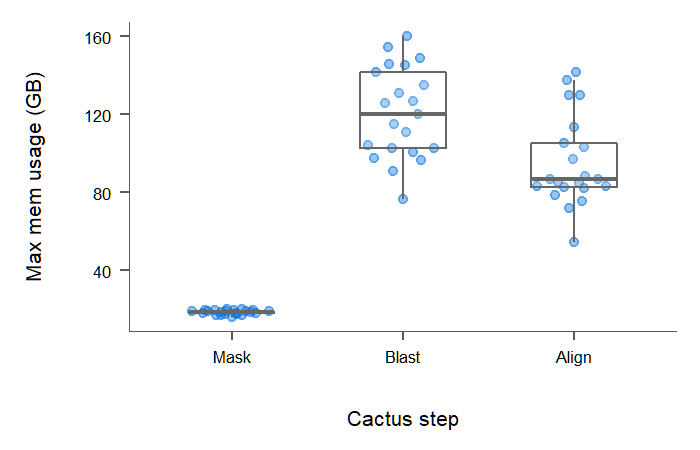
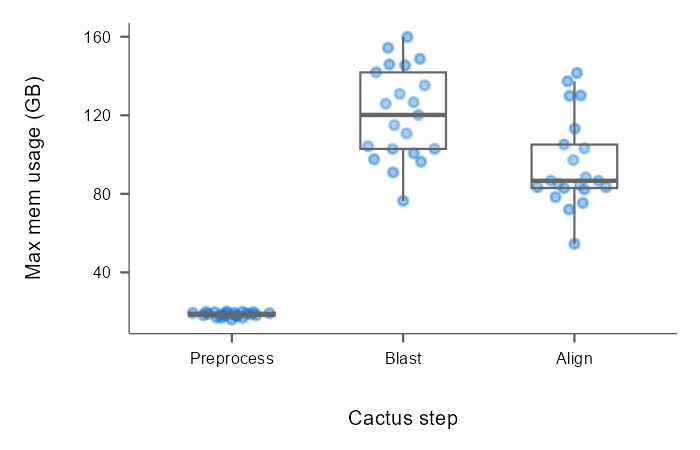
minor tweaks to cactus tutorial

diff --git a/docs/resources/Tutorials/whole-genome-alignment-cactus.md b/docs/resources/Tutorials/whole-genome-alignment-cactus.md
@@ -16,7 +16,7 @@ Comparative genomics requires alignments between sequences from different popula
     Here is the rulegraph for the pipeline. It works in rounds based on the shape of the input phylogeny (hence the cycle). First, genomes at the tips are masked and then all internal nodes are aligned.
 
     <center>
-        <img src="../../img/cactus-snakemake-rulegraph.png" alt="A directed cyclic graph showing the rules for the pipeline.'">
+        <img src="../../img/cactus-rulegraph.png" alt="A directed cyclic graph showing the rules for the pipeline.'">
     </center>
 
 ## Getting started
@@ -114,14 +114,14 @@ D   seqdir/d.fa
 E   seqdir/e.fa
 ```
 
-For more information about the Cactus input file, see their [official documentation](https://github.com/ComparativeGenomicsToolkit/cactus/blob/master/doc/progressive.md#interface). There is also an example input file for a small test dataset [here](https://github.com/harvardinformatics/cactus-snakemake/blob/main/tests/evolverMammals.txt) or at `tests/evolverMammals.txt`. For more info, see section: [Test dataset](#test-dataset).
+For more information about the Cactus input file, see their [official documentation](https://github.com/ComparativeGenomicsToolkit/cactus/blob/master/doc/progressive.md#interface). There is also an example input file for a small test dataset [here](https://github.com/harvardinformatics/cactus-snakemake/blob/main/tests/evolverMammals/evolverMammals.txt) or at `tests/evolverMammals/evolverMammals.txt`. For more info, see section: [Test dataset](#test-dataset).
 
 
 ### Preparing the Snakemake config file
 
 !!! tip "Be sure to start with the example config file as a template!"
 
-    The config for the Cactus test data can be found at [here](https://github.com/harvardinformatics/cactus-snakemake/blob/main/tests/evolverMammals-cfg.yaml) or at `tests/evolverMammals-cfg.yaml` in your downloaded cactus-snakemake repo. Be sure to use this as the template for your project since it has all the options needed! **Note: the partitions set in this config file are specific to the Harvard cluster. Be sure to update them if you are running this pipeline elsewhere.**
+    The config for the Cactus test data can be found at [here](https://github.com/harvardinformatics/cactus-snakemake/blob/main/tests/evolverMammals/evolverMammals-cfg.yaml) or at `tests/evolverMammals/evolverMammals-cfg.yaml` in your downloaded cactus-snakemake repo. Be sure to use this as the template for your project since it has all the options needed! **Note: the partitions set in this config file are specific to the Harvard cluster. Be sure to update them if you are running this pipeline elsewhere.**
 
     Additionally, a blank template file is located [here](https://github.com/harvardinformatics/cactus-snakemake/blob/main/config-template.yaml) or at `config-template.yaml` in your downloaded cactus-snakemake repo.
 
@@ -160,17 +160,17 @@ Simply replace the string surrounded by <> with the path or option desired. Belo
 Below these options in the config file are further options for specifying resource usage for each rule that the pipeline will run. For example:
 
 ```
-mask_partition: "gpu_test"
-mask_gpu: 1
-mask_cpu: 8
-mask_mem: 25000
-mask_time: 30
+preprocess_partition: "gpu_test"
+preprocess_gpu: 1
+preprocess_cpu: 8
+preprocess_mem: 25000
+preprocess_time: 30
 ```
 
 !!! warning "Notes on resource allocation"
 
     * Be sure to use partition names appropriate your cluster. Several examples in this tutorial have partition names that are specific to the Harvard cluster, so be sure to change them.
-    * **Allocate the proper partitions based on `use_gpu`.** If you want to use the GPU version of cactus (*i.e.* you have set `use_gpu: True` in the config file), the partition for the rules **mask**, **blast**, and **align** must be GPU enabled. If not, the pipeline will fail to run.
+    * **Allocate the proper partitions based on `use_gpu`.** If you want to use the GPU version of cactus (*i.e.* you have set `use_gpu: True` in the config file), the partition for the rules **preprocess**, **blast**, and **align** must be GPU enabled. If not, the pipeline will fail to run.
     * The `gpu:` options will be ignored if `use_gpu: False` is set.
     * **mem is in MB** and **time is in minutes**.
 
@@ -192,11 +192,11 @@ Click below to take a look at an example to get a sense for how many resources y
 
     <center>
 
-    | Step    | Partition | Memory | CPUs | GPUs | Time |
-    |---------|-----------|--------|------|------|------|
-    | Mask    | gpu       | 100g   | 8    | 2    | 1h   |
-    | Blast   | gpu       | 400g   | 64   | 1    | 12h  |
-    | Align   | gpu       | 450g   | 64   | 2    | 12h  |
+    | Step       | Partition | Memory | CPUs | GPUs | Time |
+    |------------|-----------|--------|------|------|------|
+    | Preprocess | gpu       | 100g   | 8    | 2    | 1h   |
+    | Blast      | gpu       | 400g   | 64   | 1    | 12h  |
+    | Align      | gpu       | 450g   | 64   | 2    | 12h  |
 
     </center>
 
@@ -227,7 +227,7 @@ First, we want to make sure everything is setup properly by using the `--dryrun`
 This is done with the following command, changing the snakefile `-s` and `--configfile` paths to the one you have created for your project:
 
 ```bash
-snakemake -p -j <# of jobs to submit simultaneously> -e slurm -s </path/to/cactus_gpu.smk> --configfile <path/to/your/snakmake-config.yml> --dryrun
+snakemake -p -j <# of jobs to submit simultaneously> -e slurm -s </path/to/cactus.smk> --configfile <path/to/your/snakmake-config.yml> --dryrun
 ```
 
 ??? info "Command breakdown"
@@ -238,7 +238,7 @@ snakemake -p -j <# of jobs to submit simultaneously> -e slurm -s </path/to/cactu
     | `-p`                                              | Print out the commands that will be executed. |
     | `-j <# of jobs to submit simultaneously>`         | The maximum number of jobs that will be submitted to your SLURM cluster at one time. |
     | `-e slurm`                                        | Specify to use the SLURM executor plugin. See: [Getting started](#getting-started) |
-    | `-s </path/to/cactus_gpu.smk>                     | The path to the workflow file. |
+    | `-s </path/to/cactus.smk>                     | The path to the workflow file. |
     | `--configfile <path/to/your/snakmake-config.yml>` | The path to your config file. See: [Preparing the Snakemake config file](#preparing-the-snakemake-config-file) |
     | `--dryrun`                                        | Do not execute anything, just display what would be done. |
 
@@ -258,7 +258,7 @@ append          1
 blast           4
 convert         4
 copy_hal        1
-mask            5
+preprocess      5
 total          20
 
 Reasons:
@@ -266,7 +266,7 @@ Reasons:
     input files updated by another job:
         align, all, append, blast, convert, copy_hal
     output files have to be generated:
-        align, append, blast, convert, copy_hal, mask
+        align, append, blast, convert, copy_hal, preprocess
 
 This was a dry-run (flag -n). The order of jobs does not reflect the order of execution.
 ```
@@ -278,7 +278,7 @@ If you see any red text, that likely means an error has occurred that must be ad
 If you're satisfied that the `--dryrun` has completed successfully and you are ready to start submitting Cactus jobs to the cluster, you can do so by simply removing the `--dryrun` option from the command above:
 
 ```bash
-snakemake -p -j <# of jobs to submit simultaneously> -e slurm -s </path/to/cactus_gpu.smk> --configfile <path/to/your/snakmake-config.yml>
+snakemake -p -j <# of jobs to submit simultaneously> -e slurm -s </path/to/cactus.smk> --configfile <path/to/your/snakmake-config.yml>
 ```
 
 This will start submitting jobs to SLURM. On your screen, you will see continuous updates regarding job status in blue text. In another terminal, you can also check on the status of your jobs by running `squeue -u <your user id>`. 
@@ -311,19 +311,19 @@ Here is a breakdown of the files so you can investigate them and prepare similar
 
 We recommend running this test dataset before setting up your own project.
 
-First, open the config file, `tests/evolverMammals-cfg.yaml` and make sure the partitions are set appropriately for your cluster. For this small test dataset, it is appropriate to use any "test" partitions you may have. Then, update the path to `tmp_dir` to point to a location where you have a lot of temporary space. Even this small dataset will fail if this directory does not have enough space.
+First, open the config file, `tests/evolverMammals/evolverMammals-cfg.yaml` and make sure the partitions are set appropriately for your cluster. For this small test dataset, it is appropriate to use any "test" partitions you may have. Then, update the path to `tmp_dir` to point to a location where you have a lot of temporary space. Even this small dataset will fail if this directory does not have enough space.
 
 After that, run a dryrun of the test dataset by changing into the `tests/` directory and running:
 
 ```bash
-cd tests/
-snakemake -p -j 10 -e slurm -s ../cactus_gpu.smk --configfile evolverMammals-cfg.yaml --dryurun
+cd tests/evolverMammals/
+snakemake -p -j 10 -e slurm -s ../cactus.smk --configfile evolverMammals-cfg.yaml --dryurun
 ```
 
 If this completes without error, run the pipeline by removing the `--dryrun` option:
 
 ```bash
-snakemake -p -j 10 -e slurm -s ../cactus_gpu.smk --configfile evolverMammals-cfg.yaml
+snakemake -p -j 10 -e slurm -s ../cactus.smk --configfile evolverMammals-cfg.yaml
 ```
 
 ## Questions/troubleshooting
